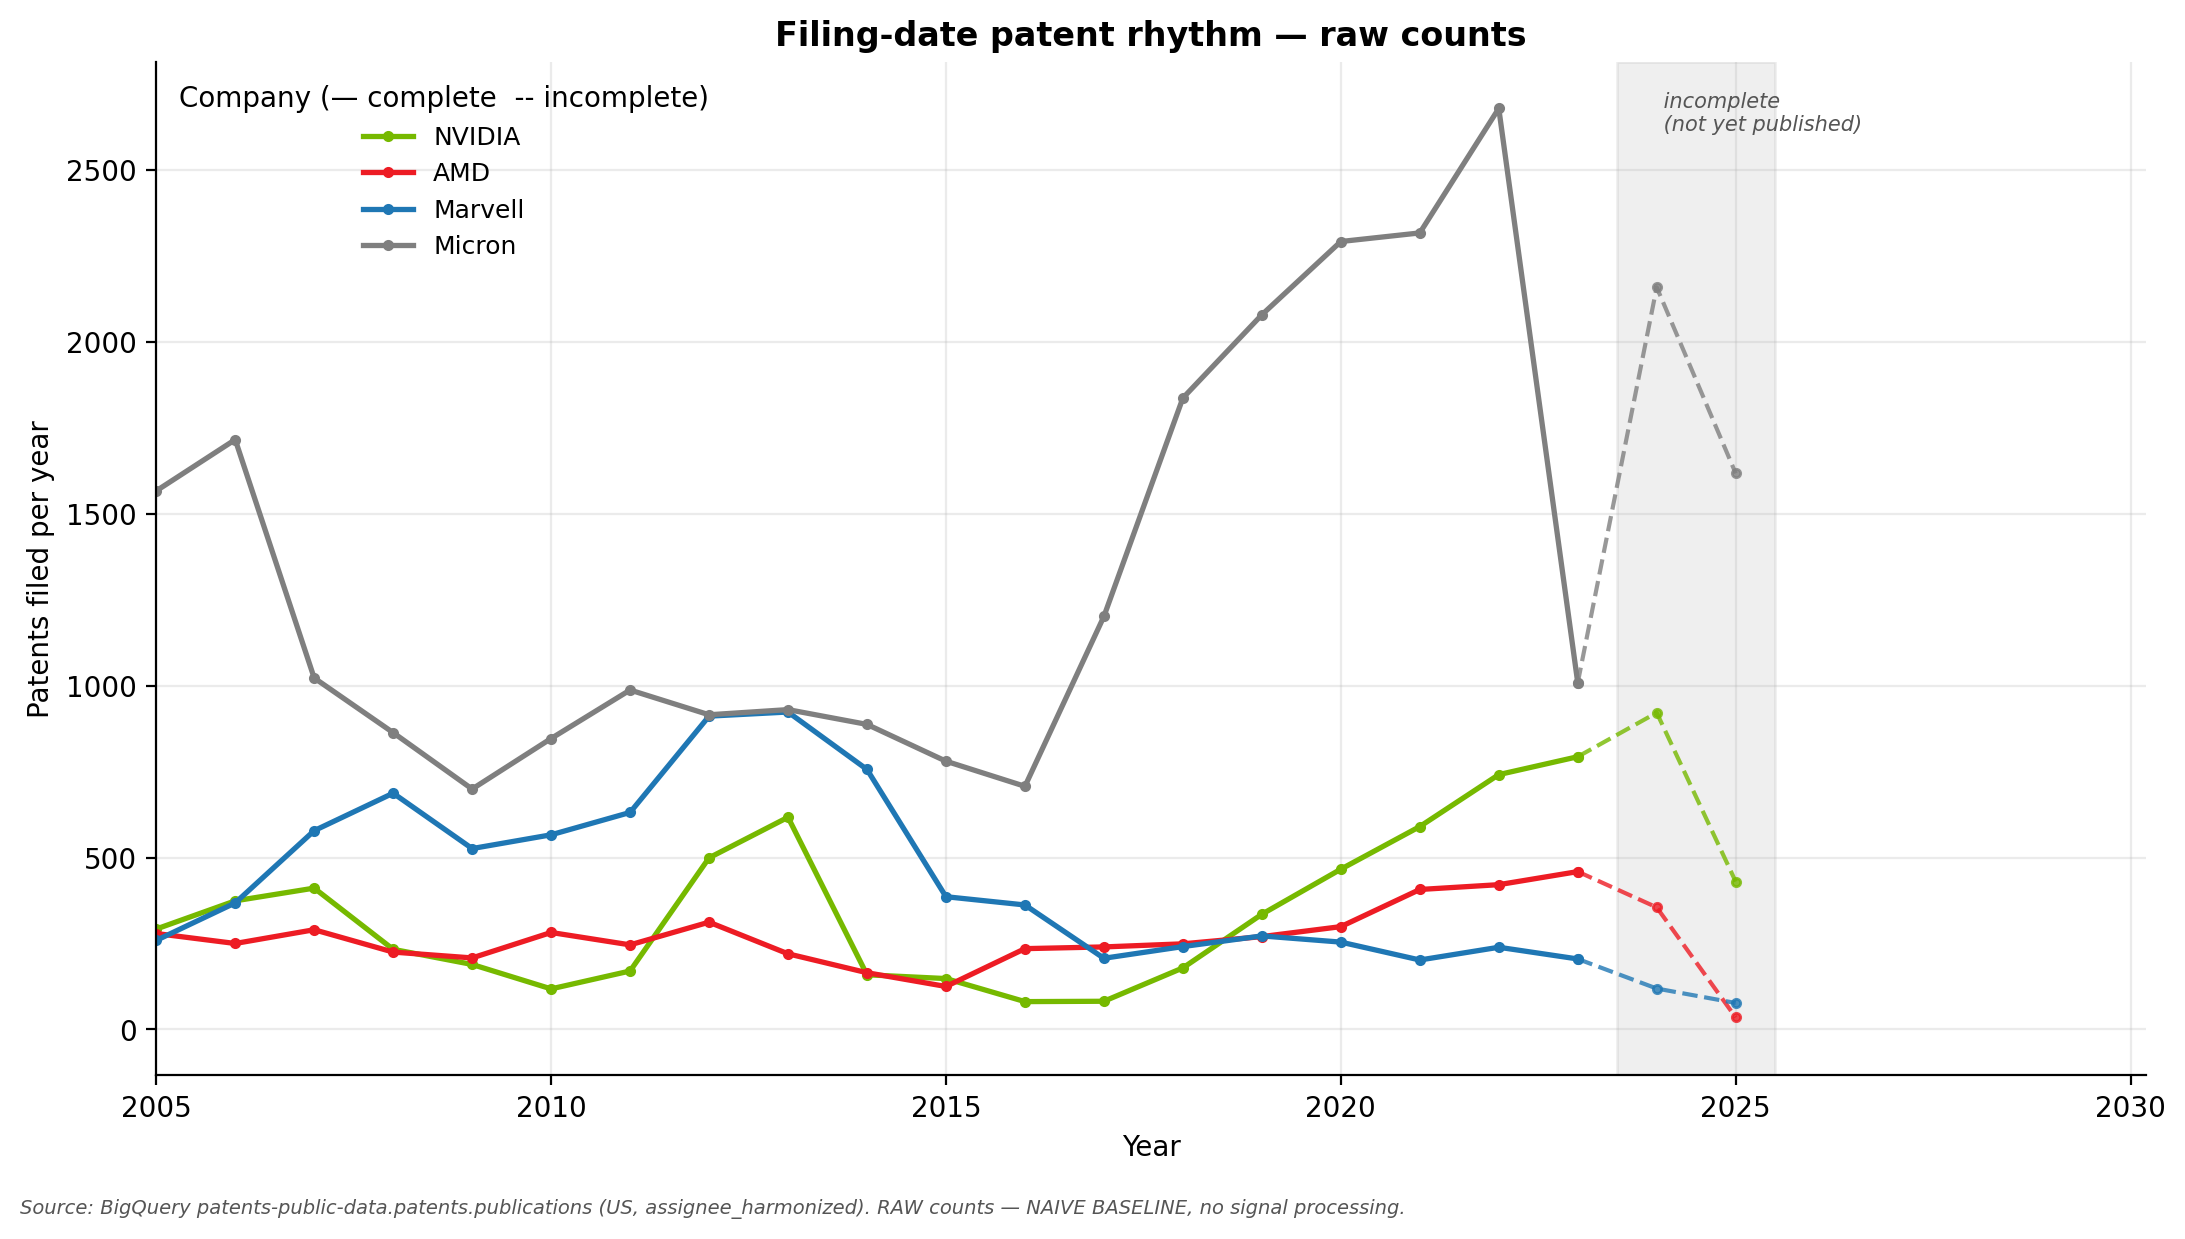
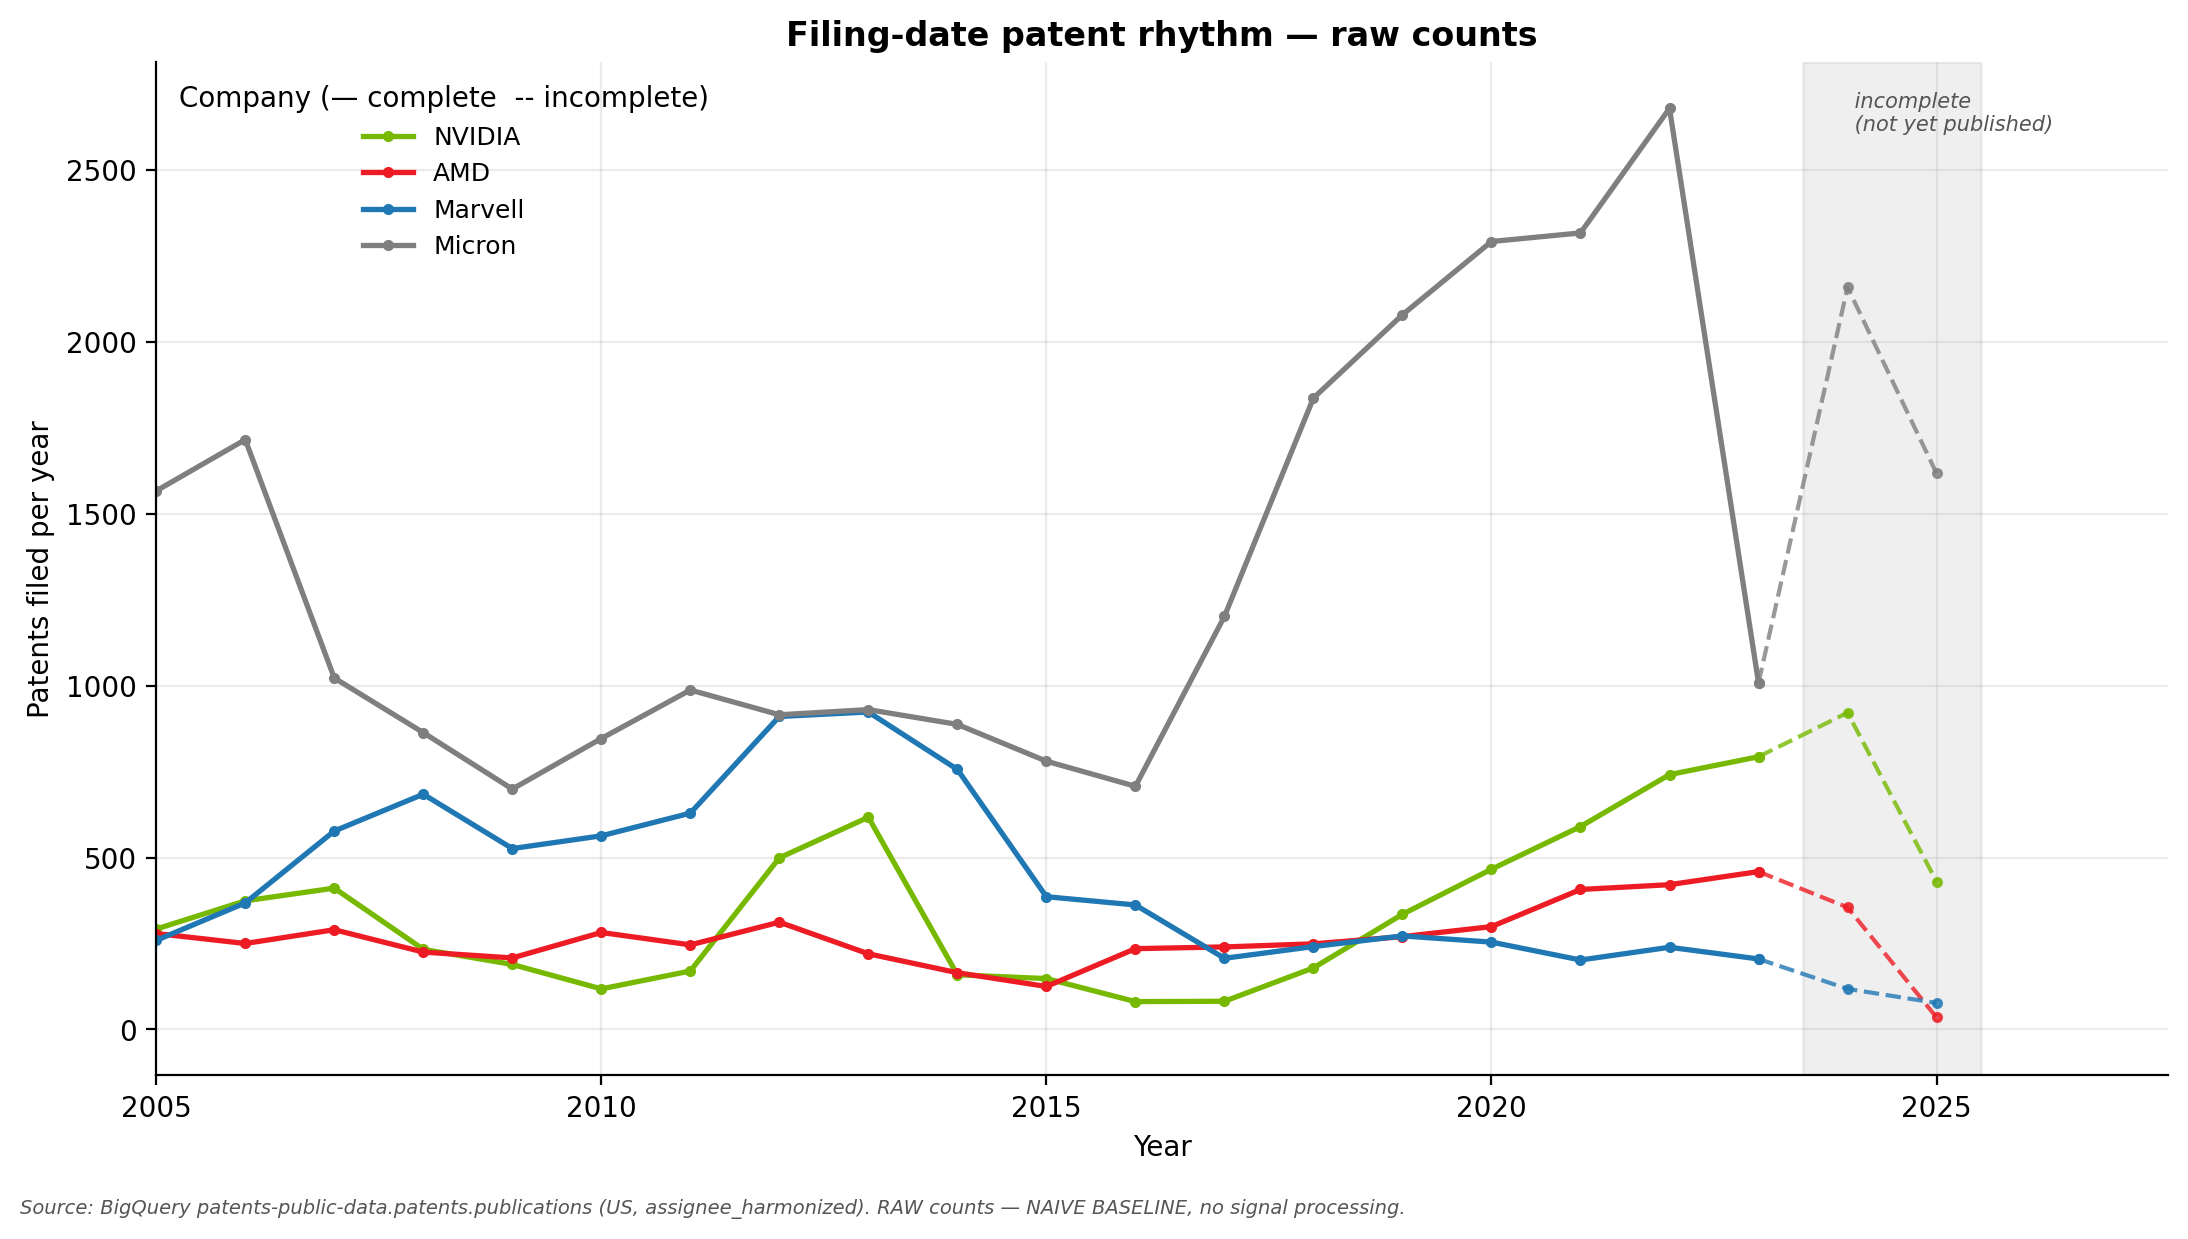
Step 2.5: symmetric assignee cleanup — MRVL person/unrelated names excluded

diff --git a/src/qvm/config.py b/src/qvm/config.py
@@ -126,9 +126,15 @@ PUBLICATION_SORT_FIELD = "document_number"
 # ~99% of NVIDIA into "NVIDIA CORP"; the prefix handles the ~1% tail
 # (typos like NVIDIA CORPORTION, subsidiaries like NVIDIA TECHNOLOGY UK LTD).
 #
+# CLEANUP RULE (applied symmetrically to all four companies): an assignee is
+# excluded when it is VERIFIABLY a different company or a person. Names with
+# >=20 applications were verified individually; ambiguous names with <10
+# applications are documented as residual noise but NOT excluded (we do not
+# guess). The audit CSV's `excluded` section records every drop with a reason.
+#
 # `exclude_name_like` (optional) lists prefixes that the company's `name_like`
-# would otherwise capture but that belong to UNRELATED companies. Each entry
-# carries the reason — this is the whitepaper's false-positive audit trail.
+# would otherwise capture but that belong to UNRELATED companies or persons.
+# Each entry carries the reason — the whitepaper's false-positive audit trail.
 # `include_name_like` (optional) is the stricter tool for a polluted net: when
 # present, a `name_like` match must ALSO hit one of these prefixes (a curated
 # allowlist of the company's real entities), otherwise it is excluded.
@@ -157,6 +163,35 @@ COMPANIES = [
         # Role: mid-cap, connectivity/networking. DOMAIN-RELEVANT case.
         "name_like": "MARVELL%",
         "expect_min_patents": 1000,
+        # Step-2 re-audit: MARVELL% also catches individual inventors named
+        # Marvell* and a few unrelated companies (~22 apps, 0.2%). Excluded
+        # per the cleanup rule above. NOT excluded: MARVELLWORLD TRADE LTD —
+        # a concatenation typo of the legitimate MARVELL WORLD TRADE LTD.
+        "exclude_name_like": [
+            {"prefix": "MARVELLUM%",
+             "reason": "Marvellum Company — unrelated (paper company), "
+                       "not a Marvell Technology entity"},
+            {"prefix": "MARVELLOUS%",
+             "reason": "MARVELLOUS TECHNOLOGY / MARVELLOUS DAY INDUSTRIAL — "
+                       "unrelated companies sharing the letter prefix"},
+            {"prefix": "MARVELLA%",
+             "reason": "Marvella Corp — unrelated company"},
+            {"prefix": "MARVELLY%",
+             "reason": "individual inventor (MARVELLY JOHN DUNSTAN), "
+                       "not a company"},
+            {"prefix": "MARVELLE %",
+             "reason": "individual inventors (MARVELLE M MEYDAM, "
+                       "MARVELLE SAUNDERS), not companies"},
+            {"prefix": "MARVELLI %",
+             "reason": "individual inventor (MARVELLI RICHARD), not a company"},
+            {"prefix": "MARVELL KRISTAN%",
+             "reason": "individual inventor, not a company"},
+            {"prefix": "MARVELL WILLIAM%",
+             "reason": "individual inventor, not a company"},
+            {"prefix": "MARVELL TOWNSEND%",
+             "reason": "Marvell Townsend Further Processing B.V. — unrelated "
+                       "Dutch company"},
+        ],
         # SEC's ticker map only carries the SUCCESSOR entity (Marvell
         # Technology, Inc., CIK 1835632, created in the 2021 Inphi merger),
         # whose XBRL history starts FY2020. The pre-2021 history sits under